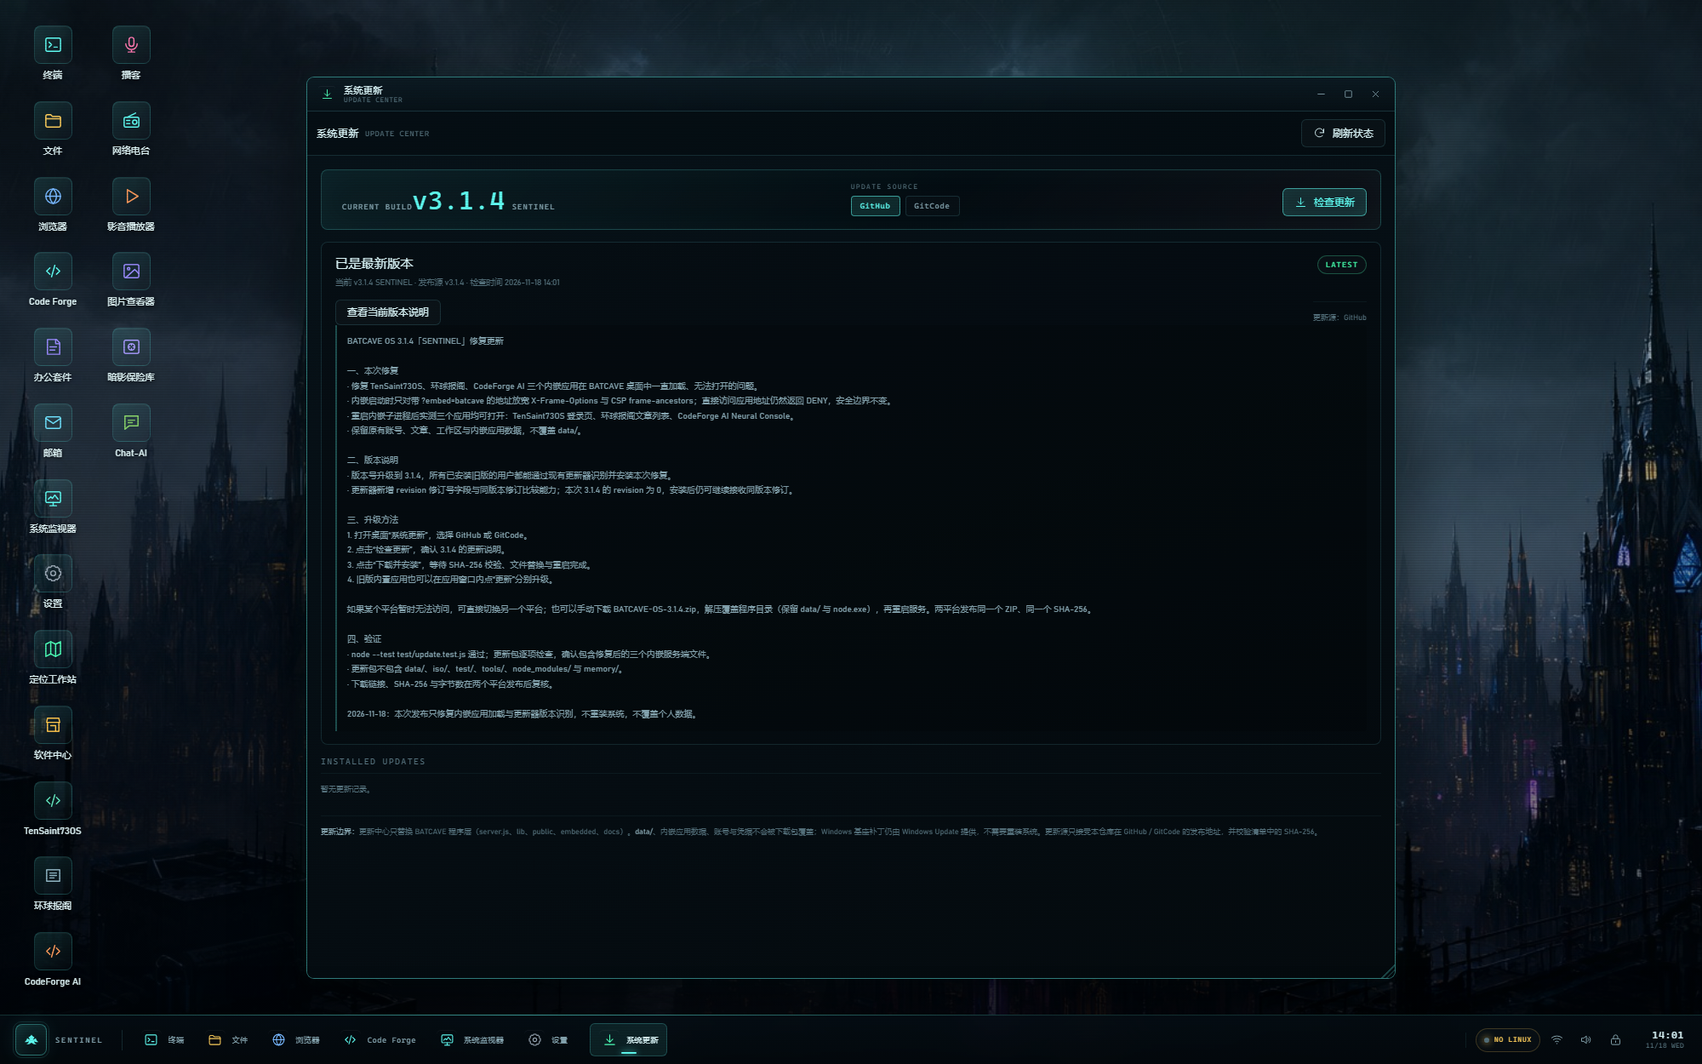
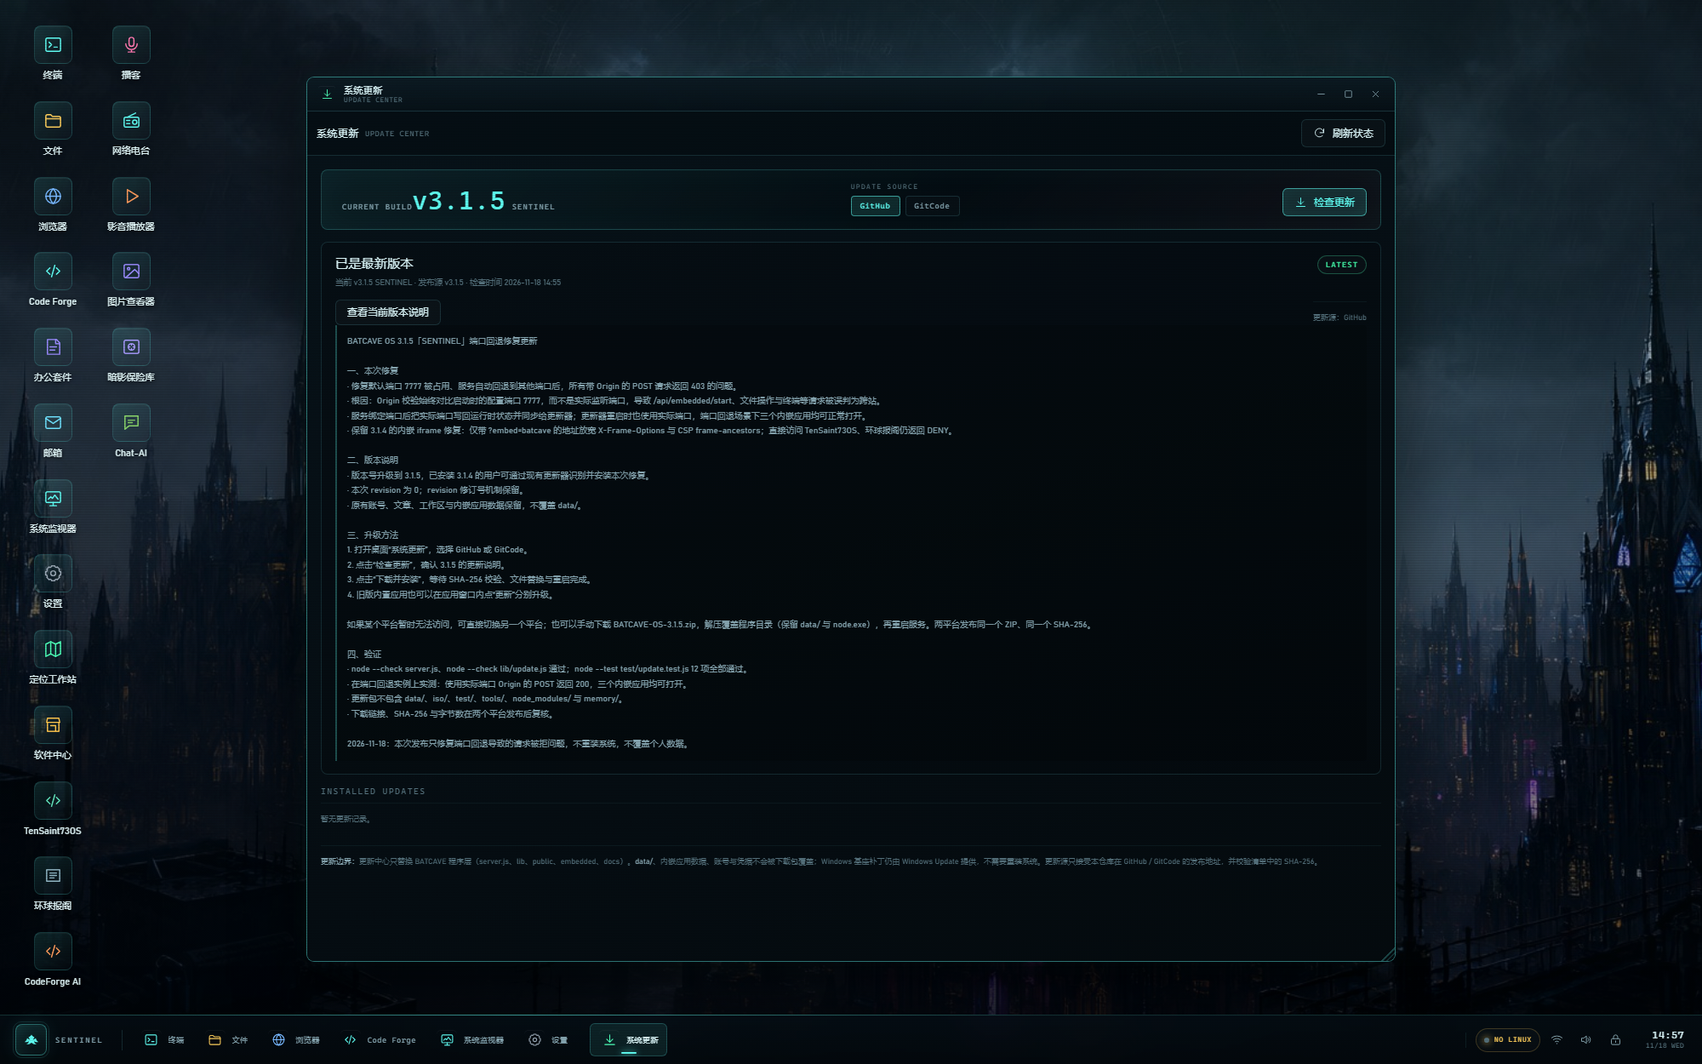
BATCAVE-OS 3.1.5 SENTINEL：修复端口回退导致的 Origin 403，三个内嵌应用恢复加载

Changed region(s): [[0.186, 0.4368, 0.775, 0.8112], [0.217, 0.312, 0.527, 0.4056]]

diff --git a/public/js/apps-tools.js b/public/js/apps-tools.js
@@ -394,7 +394,7 @@
         panel.innerHTML =
           '<h3>系统与命令环境</h3><p class="sub">数据来自正在运行的本机服务。Linux 命令需要 WSL2 Linux Core 或 Batcave ISO。</p>' +
           '<div class="setting-group"><div class="setting-label">RUNTIME</div>' +
-            '<div class="kv"><span>VERSION</span><b>BATCAVE ' + U.esc(BC.BOOT.version || '3.1.4') + (BC.BOOT.revision ? ' r' + U.esc(BC.BOOT.revision) : '') + ' · ' + U.esc(BC.BOOT.codename || 'SENTINEL') + '</b></div>' +
+            '<div class="kv"><span>VERSION</span><b>BATCAVE ' + U.esc(BC.BOOT.version || '3.1.5') + (BC.BOOT.revision ? ' r' + U.esc(BC.BOOT.revision) : '') + ' · ' + U.esc(BC.BOOT.codename || 'SENTINEL') + '</b></div>' +
             '<div class="kv"><span>HOST / USER</span><b>' + U.esc(BC.BOOT.hostname || '') + ' · ' + U.esc(BC.BOOT.user || '') + '</b></div>' +
             '<div class="kv"><span>PLATFORM</span><b>' + U.esc(BC.BOOT.platform || '') + '</b></div>' +
             '<div class="kv"><span>HOME</span><b>' + U.esc(BC.BOOT.home || '') + '</b></div>' +
@@ -418,7 +418,7 @@
       } else {
         panel.innerHTML =
           '<h3>关于 BATCAVE</h3><p class="sub">一个以真实命令桥为核心的本地桌面环境。</p>' +
-          '<div class="about-card"><span class="logo-mark">' + U.icon('bat') + '</span><div><div class="ver">' + U.esc(BC.BOOT.codename || 'SENTINEL') + ' v' + U.esc(BC.BOOT.version || '3.1.4') + (BC.BOOT.revision ? ' r' + U.esc(BC.BOOT.revision) : '') + '</div><h4>BATCAVE OS</h4><p>零依赖 Node.js 服务 + 浏览器桌面。窗口、文件、终端与网页代理运行在本地；终端命令真实执行，不伪造输出。</p></div></div>' +
+          '<div class="about-card"><span class="logo-mark">' + U.icon('bat') + '</span><div><div class="ver">' + U.esc(BC.BOOT.codename || 'SENTINEL') + ' v' + U.esc(BC.BOOT.version || '3.1.5') + (BC.BOOT.revision ? ' r' + U.esc(BC.BOOT.revision) : '') + '</div><h4>BATCAVE OS</h4><p>零依赖 Node.js 服务 + 浏览器桌面。窗口、文件、终端与网页代理运行在本地；终端命令真实执行，不伪造输出。</p></div></div>' +
           '<div class="setting-group" style="margin-top:20px"><div class="setting-label">STACK</div>' +
             '<div class="kv"><span>UI</span><b>HTML · CSS · vanilla JS</b></div>' +
             '<div class="kv"><span>SERVER</span><b>Node.js · 无第三方依赖</b></div>' +

diff --git a/public/js/core.js b/public/js/core.js
@@ -50,7 +50,7 @@
     if (els.loginBg) els.loginBg.style.backgroundImage = 'url("' + wallpaperUrl(settings.wallpaper) + '")';
     $$('#loginName, #launcherName').forEach(el => { el.textContent = settings.account || 'BRUCE'; });
     if (els.loginHost) els.loginHost.textContent = BOOT.hostname || 'LOCAL';
-    if (els.launcherBuild) els.launcherBuild.textContent = (BOOT.codename || 'SENTINEL') + ' v' + (BOOT.version || '3.1.4') + (BOOT.revision ? ' · r' + BOOT.revision : '');
+    if (els.launcherBuild) els.launcherBuild.textContent = (BOOT.codename || 'SENTINEL') + ' v' + (BOOT.version || '3.1.5') + (BOOT.revision ? ' · r' + BOOT.revision : '');
     updateTrayLinux();
     if (settings.matrix) startMatrix(); else stopMatrix();
   }
@@ -98,7 +98,7 @@
     const reduce = !settings.motion || (window.matchMedia && matchMedia('(prefers-reduced-motion: reduce)').matches);
     const step = reduce ? 45 : 330;
     const lines = [
-      ['BOOTSTRAP // BATCAVE OS ' + (BOOT.version || '3.1.4') + (BOOT.revision ? ' r' + BOOT.revision : '') + ' · ' + (BOOT.codename || 'SENTINEL'), 'ok'],
+      ['BOOTSTRAP // BATCAVE OS ' + (BOOT.version || '3.1.5') + (BOOT.revision ? ' r' + BOOT.revision : '') + ' · ' + (BOOT.codename || 'SENTINEL'), 'ok'],
       ['LINK // ' + (BOOT.hostname || 'LOCAL') + ' · ' + String(BOOT.platform || 'unknown').toUpperCase() + ' · ' + (BOOT.user || 'operator'), ''],
       ['TOKEN GATE // ' + (A.token ? 'ARMED · LOCAL API' : 'OFFLINE · SERVE VIA NODE'), A.token ? 'ok' : 'warn'],
       ['HOME // ' + (BOOT.home || '—'), 'dim'],

diff --git a/public/index.html b/public/index.html
@@ -91,7 +91,7 @@
     <div class="boot-emblem"><span class="boot-ring"></span><span class="boot-ring r2"></span><svg class="ic"><use href="#i-bat"></use></svg></div>
     <div class="boot-kicker">WAYNE ENTERPRISES // BLACK SITE 03</div>
     <h1 class="boot-title" data-text="BATCAVE OS">BATCAVE OS</h1>
-    <div class="boot-codename">SENTINEL · v3.1.4</div>
+    <div class="boot-codename">SENTINEL · v3.1.5</div>
     <div class="boot-progress"><i id="bootBar"></i></div>
     <div id="bootLog" class="boot-log"></div>
     <button id="bootSkip" class="boot-skip">按任意键跳过 / SKIP</button>
@@ -208,7 +208,7 @@
         <button class="foot-btn" data-power="restart"><svg class="ic"><use href="#i-restart"></use></svg>重启</button>
         <button class="foot-btn danger" data-power="shutdown"><svg class="ic"><use href="#i-power"></use></svg>关机</button>
       </div>
-      <div class="launcher-meta"><span id="launcherBuild">SENTINEL v3.1.4</span><span>↑↓ 选择 · ENTER 打开 · ALT+SPACE 呼出</span></div>
+      <div class="launcher-meta"><span id="launcherBuild">SENTINEL v3.1.5</span><span>↑↓ 选择 · ENTER 打开 · ALT+SPACE 呼出</span></div>
     </div>
   </section>
 

diff --git a/server.js b/server.js
@@ -23,7 +23,7 @@ const update = require('./lib/update');
 const appUpdates = require('./lib/app-updates');
 const releaseFeed = require('./lib/release-feed');
 
-const VERSION = '3.1.4';
+const VERSION = '3.1.5';
 const REVISION = 0;
 const BUILD = '2026-11-18';
 const CODENAME = 'SENTINEL';
@@ -57,7 +57,7 @@ function parseArgs(argv) {
 }
 
 const argv = parseArgs(process.argv.slice(2));
-const PORT = Number(process.env.BATCAVE_PORT || argv.port || 7777);
+let PORT = Number(process.env.BATCAVE_PORT || argv.port || 7777);
 const HOST = process.env.BATCAVE_HOST || argv.host || '127.0.0.1';
 const OPEN_BROWSER = argv.open === false ? false : !argv.tui;
 const KIOSK = !!argv.kiosk;
@@ -2005,6 +2005,8 @@ async function start(options = {}) {
       throw e;
     }
   }
+  PORT = port;
+  update.configure({ port });
   const url = `http://${HOST === '0.0.0.0' ? '127.0.0.1' : HOST}:${port}/`;
   releaseFeed.startWatching();
   console.log(banner(port));

diff --git a/public/js/terminal.js b/public/js/terminal.js
@@ -124,7 +124,7 @@
       '</div>' +
       '<div class="term-screen" tabindex="0">' +
         '<div class="term-welcome">' +
-          '<div><span class="hl">BATCAVE SHELL</span> // <span class="rose">REAL EXECUTION BRIDGE</span> ' + U.esc(BOOT.version || '3.1.4') + (BOOT.revision ? ' r' + U.esc(BOOT.revision) : '') + '</div>' +
+          '<div><span class="hl">BATCAVE SHELL</span> // <span class="rose">REAL EXECUTION BRIDGE</span> ' + U.esc(BOOT.version || '3.1.5') + (BOOT.revision ? ' r' + U.esc(BOOT.revision) : '') + '</div>' +
           '<div>交互输出来自真实进程。系统不会伪造命令结果。</div>' +
           '<div class="dim">Ctrl+C 终止 · TAB 补全 · ↑↓ 历史 · 右键复制/粘贴</div>' +
           (BOOT.bridge && BOOT.bridge.linuxAvailable ? '' : '<div style="color:var(--warn);margin-top:5px">LINUX CORE 离线：sudo / apt-get / brew 会给出明确说明，需 WSL2 或 Batcave ISO。</div>') +

diff --git a/lib/update.js b/lib/update.js
@@ -33,7 +33,7 @@ let job = null;
 let lastCheck = null;
 
 function configure(options) {
-  cfg = Object.assign({}, options);
+  cfg = Object.assign({}, cfg || {}, options);
   stateDir = path.join(cfg.dataDir, 'updates');
 }
 

diff --git a/lib/home.js b/lib/home.js
@@ -7,7 +7,7 @@ const path = require('path');
 let ROOT = null;
 
 const FILES = {
-  'README.md': `# BATCAVE OS // SENTINEL 3.1.4
+  'README.md': `# BATCAVE OS // SENTINEL 3.1.5
 
 > 这座城市睡着了。我们不睡。
 

diff --git a/README.md b/README.md
@@ -1,28 +1,29 @@
-# BATCAVE OS v3.1.4 · SENTINEL
+# BATCAVE OS v3.1.5 · SENTINEL
 
 一个可离线运行、可制作成可启动 Windows 安装 ISO 或 Windows To Go 系统盘的本地 Web 桌面。后端是零依赖的 Node.js 服务，前端是原生 JavaScript 窗口管理器；终端、编译器、网络、软件中心、邮件、内嵌应用与系统更新都调用真实能力，不是静态演示页。
 
-**当前版本：3.1.4 SENTINEL · 发布于 2026-11-18 · MIT License**
+**当前版本：3.1.5 SENTINEL · 发布于 2026-11-18 · MIT License**
 
 ## 下载
 
 | 内容 | GitHub | GitCode |
 | --- | --- | --- |
-| 程序包 v3.1.4（ZIP，用于安装或应用内更新） | [BATCAVE-OS-3.1.4.zip](https://github.com/IAMMEZSH/BATCAVE-OS/releases/download/v3.1.4/BATCAVE-OS-3.1.4.zip) | [BATCAVE-OS-3.1.4.zip](https://gitcode.com/gcw_So3EkhfR/BATCAVE-OS/releases/download/v3.1.4/BATCAVE-OS-3.1.4.zip) |
-| SHA-256 校验值 | [SHA256SUMS.txt](https://github.com/IAMMEZSH/BATCAVE-OS/releases/download/v3.1.4/SHA256SUMS.txt) | [SHA256SUMS.txt](https://gitcode.com/gcw_So3EkhfR/BATCAVE-OS/releases/download/v3.1.4/SHA256SUMS.txt) |
-| 发布页与完整更新说明 | [Release v3.1.4](https://github.com/IAMMEZSH/BATCAVE-OS/releases/tag/v3.1.4) | [Release v3.1.4](https://gitcode.com/gcw_So3EkhfR/BATCAVE-OS/releases/v3.1.4) |
+| 程序包 v3.1.5（ZIP，用于安装或应用内更新） | [BATCAVE-OS-3.1.5.zip](https://github.com/IAMMEZSH/BATCAVE-OS/releases/download/v3.1.5/BATCAVE-OS-3.1.5.zip) | [BATCAVE-OS-3.1.5.zip](https://gitcode.com/gcw_So3EkhfR/BATCAVE-OS/releases/download/v3.1.5/BATCAVE-OS-3.1.5.zip) |
+| SHA-256 校验值 | [SHA256SUMS.txt](https://github.com/IAMMEZSH/BATCAVE-OS/releases/download/v3.1.5/SHA256SUMS.txt) | [SHA256SUMS.txt](https://gitcode.com/gcw_So3EkhfR/BATCAVE-OS/releases/download/v3.1.5/SHA256SUMS.txt) |
+| 发布页与完整更新说明 | [Release v3.1.5](https://github.com/IAMMEZSH/BATCAVE-OS/releases/tag/v3.1.5) | [Release v3.1.5](https://gitcode.com/gcw_So3EkhfR/BATCAVE-OS/releases/v3.1.5) |
 | 源码仓库 | [IAMMEZSH/BATCAVE-OS](https://github.com/IAMMEZSH/BATCAVE-OS) | [gcw_So3EkhfR/BATCAVE-OS](https://gitcode.com/gcw_So3EkhfR/BATCAVE-OS) |
 
 两个平台发布**同一个 ZIP、同一个 SHA-256、同一份说明**。已安装旧版本的用户不需要重新下载镜像或重装系统，直接在应用内打开"系统更新"，选择 GitHub 或 GitCode 即可升级。
 
-### 3.1.4 更新说明
+### 3.1.5 更新说明
 
-- 修复 TenSaint73OS、环球报阁、CodeForge AI 三个内嵌应用在 BATCAVE 桌面中一直加载、无法打开的问题。
-- 只对带 `?embed=batcave` 的内嵌地址放宽 `X-Frame-Options` 与 CSP `frame-ancestors`；直接访问应用地址仍然返回 `DENY`，安全边界不变。
-- 版本号升级到 3.1.4，已安装旧版的用户会按正常版本更新提示安装；原有账号、文章、工作区与应用数据保留。
-- 更新器新增 revision 修订号能力；本次 revision 为 0。安装包仍由 `tools/package-update.js` 生成并校验 SHA-256。
+- 修复 BATCAVE 在默认端口 7777 被占用、自动回退到其他端口后，所有带 Origin 的 POST 请求被误判为跨站并返回 403 的问题；根因是 Origin 校验始终对比配置端口 7777，而不是实际监听端口。
+- 服务绑定端口后把实际端口同步给 Origin 校验与更新器，更新器重启也使用实际端口；端口回退时内嵌应用启动、文件操作、终端等 POST 功能恢复正常。
+- 保留 3.1.4 的内嵌 iframe 修复：仅带 `?embed=batcave` 的地址放宽 frame 限制；直接访问 TenSaint73OS、环球报阁仍返回 `DENY`。
+- 版本号升级到 3.1.5；数据位于 `data/`，升级不覆盖账号、文章、工作区与内嵌应用数据。
+- 更新器仍支持 revision 修订号；本次 revision 为 0。安装包由 `tools/package-update.js` 生成并校验 SHA-256。
 
-完整说明见 [Release v3.1.4](https://github.com/IAMMEZSH/BATCAVE-OS/releases/tag/v3.1.4) 或 [GitCode 发布页](https://gitcode.com/gcw_So3EkhfR/BATCAVE-OS/releases/v3.1.4)。
+完整说明见 [Release v3.1.5](https://github.com/IAMMEZSH/BATCAVE-OS/releases/tag/v3.1.5) 或 [GitCode 发布页](https://gitcode.com/gcw_So3EkhfR/BATCAVE-OS/releases/v3.1.5)。
 
 > 可启动 ISO 包含微软 Windows 安装文件，体积约 8–9 GB，并受 Windows 许可约束，**不随项目公开分发**；仓库提供构建脚本，使用自己的官方 ISO 在本机构建。Windows To Go 的 VHD 实际大小约 16–17 GB，超过 GitHub / GitCode 单个 Release 资产限制，因此发布的是**构建脚本**而非系统镜像。Windows 与激活密钥均不随项目分发，请使用自己的官方 ISO 与本机合法许可。
 
@@ -177,7 +178,7 @@ powershell -NoProfile -ExecutionPolicy Bypass -File iso\winbase\build-iso.ps1 `
   -NodeExe "D:\tools\node-v24.22.1-win-arm64.exe"
 ```
 
-产物为 `iso\out\BATCAVE-OS-3.1.4.iso` 与 `BATCAVE-OS-3.1.4-arm64.iso`，相邻目录同时生成 `VERIFY-ISO*.json`、`ISO-BUILD*.json` 与 `ISO-SHA256SUMS.txt`。构建会校验：
+产物为 `iso\out\BATCAVE-OS-3.1.5.iso` 与 `BATCAVE-OS-3.1.5-arm64.iso`，相邻目录同时生成 `VERIFY-ISO*.json`、`ISO-BUILD*.json` 与 `ISO-SHA256SUMS.txt`。构建会校验：
 
 - `install.wim` 索引名称与架构（x64 / ARM64）。
 - El Torito 引导目录：x64 同时包含 BIOS 与 UEFI，ARM64 为 UEFI。
@@ -185,7 +186,7 @@ powershell -NoProfile -ExecutionPolicy Bypass -File iso\winbase\build-iso.ps1 `
 - 载荷中不存在 `.tsowner`、`OWNER.pin`、`auth.json`、`system.db`、`data/` 或任何任务进度组件。
 - 输出 ISO 的 SHA-256、字节数、卷标与安装树完整性。
 
-此前一次本机实际构建与挂载校验结果（2026-11-17）。此后只更新程序包，未重新构建 ISO；使用同一脚本会输出 `BATCAVE-OS-3.1.4*.iso`：
+此前一次本机实际构建与挂载校验结果（2026-11-17）。此后只更新程序包，未重新构建 ISO；使用同一脚本会输出 `BATCAVE-OS-3.1.5*.iso`：
 
 | 项目 | x64 | ARM64 |
 | --- | --- | --- |

diff --git a/CHANGELOG.md b/CHANGELOG.md
@@ -2,26 +2,24 @@
 
 本文件记录面向用户的版本变化。更新器的详细机制见 [docs/UPDATE.md](docs/UPDATE.md)。
 
-## 3.1.4 · SENTINEL · 2026-11-18
+## 3.1.5 · SENTINEL · 2026-11-18
 
 ### 修复
 
-- 修复 TenSaint73OS、环球报阁、CodeForge AI 三个内嵌应用在 BATCAVE 桌面中一直加载、无法打开的问题。原因是内嵌子进程仍在发送 `X-Frame-Options: DENY` 与 `frame-ancestors 'none'`，iframe 被浏览器拦截。
-- 内嵌服务端仅在请求带 `?embed=batcave` 时放宽 frame 限制；直接访问应用地址仍然返回 `DENY`，不影响独立访问的安全边界。
-- 实测重启内嵌子进程后，TenSaint73OS 登录页、环球报阁文章列表、CodeForge AI Neural Console 均可正常打开；已有账号、文章、工作区与应用数据保留。
+- 修复默认端口 7777 被占用、服务自动回退到其他端口后，带 Origin 的 POST 请求全部返回 403 的问题。根因是 Origin 校验使用启动时的配置端口，而实际监听在回退端口，导致 `/api/embedded/start`、文件操作与终端等请求被误判为跨站。
+- 服务绑定端口后把实际端口写回运行时状态，并同步给更新器；更新器重启时使用实际端口，端口回退场景下三个内嵌应用均可正常打开。
+- 保留 3.1.4 的内嵌 iframe 修复：仅带 `?embed=batcave` 的地址放宽 `X-Frame-Options` 与 CSP `frame-ancestors`；直接访问 TenSaint73OS、环球报阁仍返回 `DENY`。
 
 ### 变更
 
-- 版本号升级为 3.1.4，使已安装旧版的客户端可以通过现有版本比较逻辑识别本次修复并弹出更新提示。
-- 更新器新增 `revision` 修订号字段与版本 + 修订号的比较逻辑，支持以后在不改版本号的情况下发布小修订；本次 `revision` 为 0。
-- 系统更新在登录后主动检查并弹出可点击的更新通知；更新中心显示当前版本、发布源版本与待重启版本。
-- README、用户手册、架构文档、更新说明、ISO 构建说明、启动画面、开始菜单构建标记、关于页与虚拟 README 的当前版本统一为 3.1.4；更新说明图片与界面截图同步重拍。
+- 版本号升级为 3.1.5；README、用户手册、架构文档、更新说明、ISO 构建说明、启动画面、开始菜单构建标记、关于页与虚拟 README 的当前版本统一为 3.1.5。
+- 更新器 `configure()` 改为合并配置，写入实际端口时不会丢失其他配置。
 
 ### 验证
 
-- `node --test test/update.test.js` 通过，覆盖版本 + 修订号比较、同版本修订、清单校验、ZIP 解压、路径穿越拦截、回滚与恢复。
-- 更新包逐项检查，确认包含三个内嵌应用的修复后服务端文件，且不包含 `data/`、`iso/`、`test/`、`tools/`、`node_modules/`、`memory/`。
+- `node --check server.js`、`node --check lib/update.js` 通过。
+- `node --test test/update.test.js` 12 项全部通过。
+- 在端口回退实例上实测：使用实际端口 Origin 的 POST 返回 200，三个内嵌应用均可打开；更新包逐项检查并校验 SHA-256。
 - 两平台发布同一个 ZIP、同一个 SHA-256、同一份更新说明；下载链接、字节数与哈希在发布后复核。
-- 桌面实测：系统更新检查到 3.1.4，三个内嵌应用在 BATCAVE iframe 中均可打开。
 
-> 本文件只保留当前 3.1.4 的版本记录；旧版发行包与旧版说明已停止分发。
+> 本文件只保留当前 3.1.5 的版本记录；旧版发行包与旧版说明已停止分发。

diff --git a/docs/MANUAL.md b/docs/MANUAL.md
@@ -1,6 +1,6 @@
 # BATCAVE OS 使用手册
 
-适用于 BATCAVE OS 3.1.4 · SENTINEL。本手册从第一次启动写到每个面板的实际用途、数据位置与故障处理。更新机制另见 [更新说明](UPDATE.md)。
+适用于 BATCAVE OS 3.1.5 · SENTINEL。本手册从第一次启动写到每个面板的实际用途、数据位置与故障处理。更新机制另见 [更新说明](UPDATE.md)。
 
 ---
 
@@ -181,7 +181,7 @@ node server.js --port=8080 --host=127.0.0.1
 
 首次启动会在映射根目录生成：
 
-- `README.md`：BATCAVE OS // SENTINEL 3.1.4 简介。
+- `README.md`：BATCAVE OS // SENTINEL 3.1.5 简介。
 - `Documents/SENTINEL-BRIEFING.md`：示例夜间简报。
 - `Projects/`：示例 Python 脚本等。
 - `Pictures/`、`Music/`、`Videos/`、`Downloads/`、`Notes/`：空目录，分别供图片查看器、影音播放器、下载与代号笔记使用。
@@ -667,7 +667,7 @@ BATCAVE 的基座有三条使用路径，均从你自己的官方 Windows 11 ISO
 
 见 [Windows 基座构建与部署](BUILD-ISO.md)。构建脚本：
 
-- `iso\winbase\build-iso.ps1`：官方安装树 + `$OEM$` → 可启动 ISO，产物默认 `iso\out\BATCAVE-OS-3.1.4[-arm64].iso`。
+- `iso\winbase\build-iso.ps1`：官方安装树 + `$OEM$` → 可启动 ISO，产物默认 `iso\out\BATCAVE-OS-3.1.5[-arm64].iso`。
 - `iso\winbase\verify-iso.ps1`：只读挂载成品 ISO，校验 WIM 索引架构、El Torito 的 BIOS/UEFI 引导、载荷、快捷方式、禁入凭据与任务 HUD 缺失，输出 `VERIFY-ISO[-arm64].json`。
 - `iso\winbase\build-winbase.ps1`：生成 Windows To Go VHD。
 - `iso\winbase\verify-vhd.ps1`：只读挂载 VHD，校验分区、引导文件、程序载荷与 PE 架构。

diff --git a/docs/UPDATE.md b/docs/UPDATE.md
@@ -114,7 +114,7 @@ dist/SHA256SUMS.txt
 
 ```powershell
 Add-Type -AssemblyName System.IO.Compression.FileSystem
-[IO.Compression.ZipFile]::OpenRead("$PWD\dist\BATCAVE-OS-3.1.4.zip").Entries |
+[IO.Compression.ZipFile]::OpenRead("$PWD\dist\BATCAVE-OS-3.1.5.zip").Entries |
   Select-Object FullName, Length | Sort-Object FullName
 ```
 
@@ -143,20 +143,20 @@ curl -L "https://api.gitcode.com/api/v5/repos/gcw_So3EkhfR/BATCAVE-OS/contents/u
 ```json
 {
   "schema": 1,
-  "version": "3.1.4",
+  "version": "3.1.5",
   "revision": 0,
   "build": "2026-11-18",
   "codename": "SENTINEL",
   "released": "2026-11-18",
   "notes": "中文更新说明，最长 30000 字符",
-  "notesUrl": "https://github.com/IAMMEZSH/BATCAVE-OS/releases/tag/v3.1.4",
+  "notesUrl": "https://github.com/IAMMEZSH/BATCAVE-OS/releases/tag/v3.1.5",
   "notesUrls": {
-    "github": "https://github.com/IAMMEZSH/BATCAVE-OS/releases/tag/v3.1.4",
-    "gitcode": "https://gitcode.com/gcw_So3EkhfR/BATCAVE-OS/releases/v3.1.4"
+    "github": "https://github.com/IAMMEZSH/BATCAVE-OS/releases/tag/v3.1.5",
+    "gitcode": "https://gitcode.com/gcw_So3EkhfR/BATCAVE-OS/releases/v3.1.5"
   },
   "assets": {
-    "github": { "url": "https://.../BATCAVE-OS-3.1.4.zip", "sha256": "64位十六进制", "size": 12345678 },
-    "gitcode": { "url": "https://.../BATCAVE-OS-3.1.4.zip", "sha256": "64位十六进制", "size": 12345678 }
+    "github": { "url": "https://.../BATCAVE-OS-3.1.5.zip", "sha256": "64位十六进制", "size": 12345678 },
+    "gitcode": { "url": "https://.../BATCAVE-OS-3.1.5.zip", "sha256": "64位十六进制", "size": 12345678 }
   }
 }
 ```

diff --git a/docs/BUILD-ISO.md b/docs/BUILD-ISO.md
@@ -86,8 +86,8 @@ powershell -NoProfile -ExecutionPolicy Bypass -File iso\winbase\build-iso.ps1 `
 
 ```text
 iso/out/
-├── BATCAVE-OS-3.1.4.iso
-├── BATCAVE-OS-3.1.4-arm64.iso
+├── BATCAVE-OS-3.1.5.iso
+├── BATCAVE-OS-3.1.5-arm64.iso
 ├── ISO-BUILD.json / ISO-BUILD-arm64.json
 ├── VERIFY-ISO.json / VERIFY-ISO-arm64.json
 ├── ISO-SHA256SUMS.txt
@@ -103,8 +103,8 @@ iso/out/
 
 ```powershell
 powershell -NoProfile -ExecutionPolicy Bypass -File iso\winbase\verify-iso.ps1 `
-  -Iso iso\out\BATCAVE-OS-3.1.4.iso -Arch x64 -Index 4 `
-  -ExpectVersion 3.1.4 -Report iso\out\VERIFY-ISO.json
+  -Iso iso\out\BATCAVE-OS-3.1.5.iso -Arch x64 -Index 4 `
+  -ExpectVersion 3.1.5 -Report iso\out\VERIFY-ISO.json
 ```
 
 `verify-iso.ps1` 只读挂载 ISO，检查：
@@ -125,7 +125,7 @@ powershell -NoProfile -ExecutionPolicy Bypass -File iso\winbase\verify-iso.ps1 `
 
 ### 1.7 本机实测结果（2026-11-17）
 
-> 此后只更新程序包，未重新构建 ISO；使用同一脚本会输出 `BATCAVE-OS-3.1.4*.iso`。
+> 此后只更新程序包，未重新构建 ISO；使用同一脚本会输出 `BATCAVE-OS-3.1.5*.iso`。
 
 | 项目 | x64 | ARM64 |
 | --- | --- | --- |
